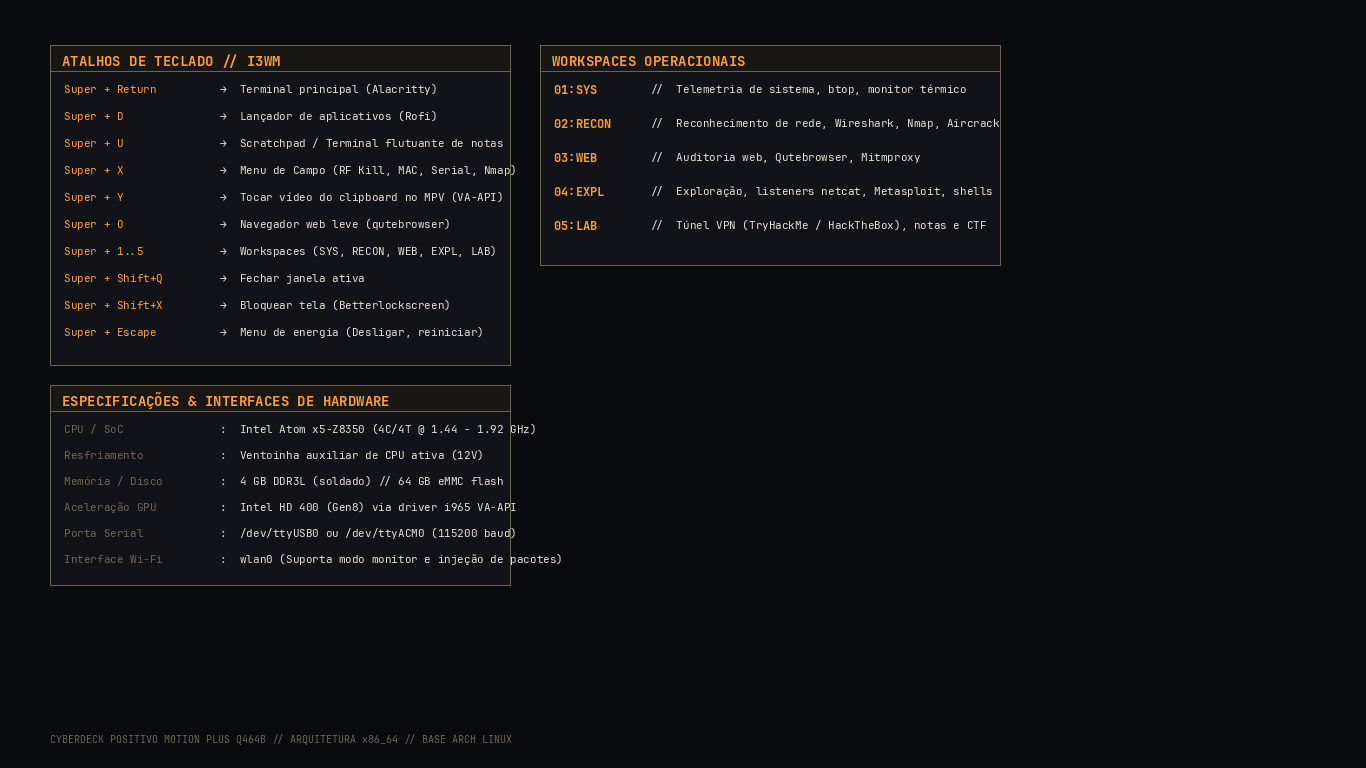
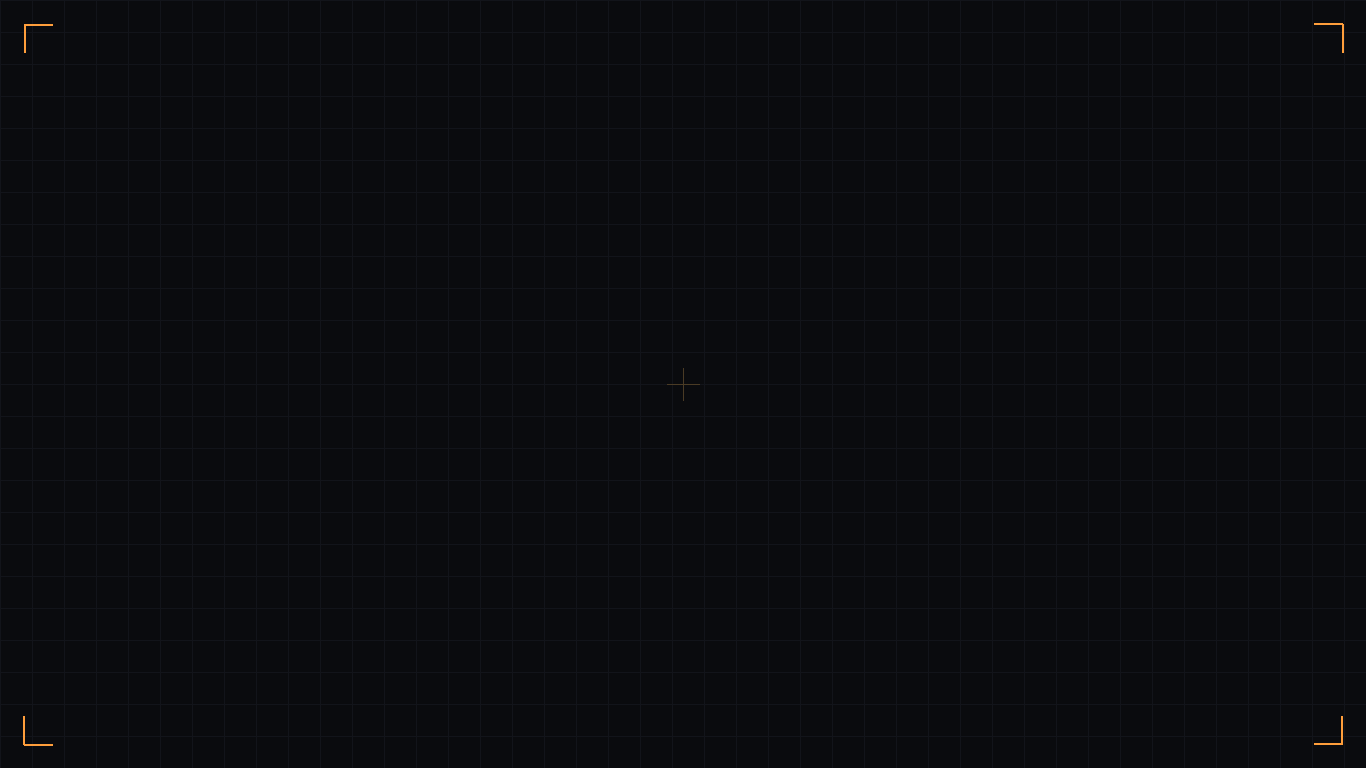
fix: alinhamento perfeito da Polybar, correcao do CSS do LightDM, lockscreen nitido e script de faxina profunda do sistema

diff --git a/lightdm/matrix-q464b-lightdm/gtk-3.0/gtk.css b/lightdm/matrix-q464b-lightdm/gtk-3.0/gtk.css
@@ -1,89 +1,102 @@
 /* =========================================================
- * lightdm — MIL-SPEC Tactical Amber Theme (Cyberdeck Q464B)
+ * LightDM GTK Greeter — Tactical Theme (Cyberdeck Q464B)
+ * Design limpo, sem bordas duplicadas ou distorções.
  * ========================================================= */
 
-@define-color accent #ff9e3b;
-@define-color bg #0d0e11;
-@define-color panelbg #14161d;
-@define-color fg #e6dfd3;
-@define-color dim #70624e;
-@define-color border #a88144;
+@define-color bg_color #0a0b0e;
+@define-color panel_bg #14161d;
+@define-color border_color #ff9e3b;
+@define-color text_color #e6dfd3;
+@define-color text_muted #70624e;
+@define-color accent_color #ff9e3b;
 
+* {
+    font-family: "JetBrains Mono", monospace;
+    font-size: 10pt;
+}
+
+/* Fundo da tela de login */
 window {
     background-color: transparent;
-    color: @fg;
-    font-family: "JetBrains Mono";
+    color: @text_color;
 }
 
-/* Painel superior militar */
+/* Barra superior com relógio e botões de energia */
 #panel_window,
-GdmSessionOptionWidget,
 .lightdm-gtk-greeter-panel {
-    background-color: @panelbg;
-    color: @accent;
-    border-bottom: 2px solid @border;
+    background-color: @panel_bg;
+    color: @accent_color;
+    border-bottom: 2px solid @border_color;
+    font-weight: bold;
+    padding: 2px 8px;
 }
 
-/* Caixa central de login com cantos retos mil-spec */
-GtkEventBox,
-.login-window {
-    background-color: @panelbg;
-    border: 3px solid @accent;
+/* Caixa central de login */
+#login_window {
+    background-color: @panel_bg;
+    border: 2px solid @border_color;
     border-radius: 0px;
-    padding: 16px;
+    padding: 24px;
+    box-shadow: none;
 }
 
+/* Rótulos e textos */
 label {
-    color: @fg;
+    color: @text_color;
     font-family: "JetBrains Mono";
 }
 
+/* Campo de entrada de senha */
 entry {
-    background-color: @bg;
-    color: @accent;
-    border: 2px solid @border;
+    background-color: @bg_color;
+    color: @accent_color;
+    border: 1px solid @text_muted;
     border-radius: 0px;
-    padding: 8px 10px;
+    padding: 8px 12px;
     font-family: "JetBrains Mono";
-    caret-color: @accent;
+    caret-color: @accent_color;
+    box-shadow: none;
 }
 
 entry:focus {
-    border-color: @accent;
-    box-shadow: 0 0 6px @accent;
+    border-color: @accent_color;
 }
 
+/* Botão de login / Entrar */
 button {
-    background-color: @bg;
-    color: @accent;
-    border: 2px solid @accent;
+    background-color: @bg_color;
+    color: @accent_color;
+    border: 1px solid @border_color;
     border-radius: 0px;
     font-family: "JetBrains Mono";
-    padding: 6px 14px;
+    padding: 6px 16px;
     font-weight: bold;
+    box-shadow: none;
 }
 
 button:hover {
-    background-color: @accent;
-    color: @bg;
+    background-color: @accent_color;
+    color: @bg_color;
 }
 
+/* Seletores de sessão e opções */
 combobox,
 combobox button {
-    background-color: @bg;
-    color: @fg;
-    border: 1px solid @border;
+    background-color: @bg_color;
+    color: @text_color;
+    border: 1px solid @text_muted;
     border-radius: 0px;
+    box-shadow: none;
 }
 
 menu, .menu {
-    background-color: @panelbg;
-    color: @fg;
-    border: 2px solid @border;
+    background-color: @panel_bg;
+    color: @text_color;
+    border: 1px solid @border_color;
     border-radius: 0px;
 }
 
 menuitem:hover {
-    background-color: @accent;
-    color: @bg;
+    background-color: @accent_color;
+    color: @bg_color;
 }
